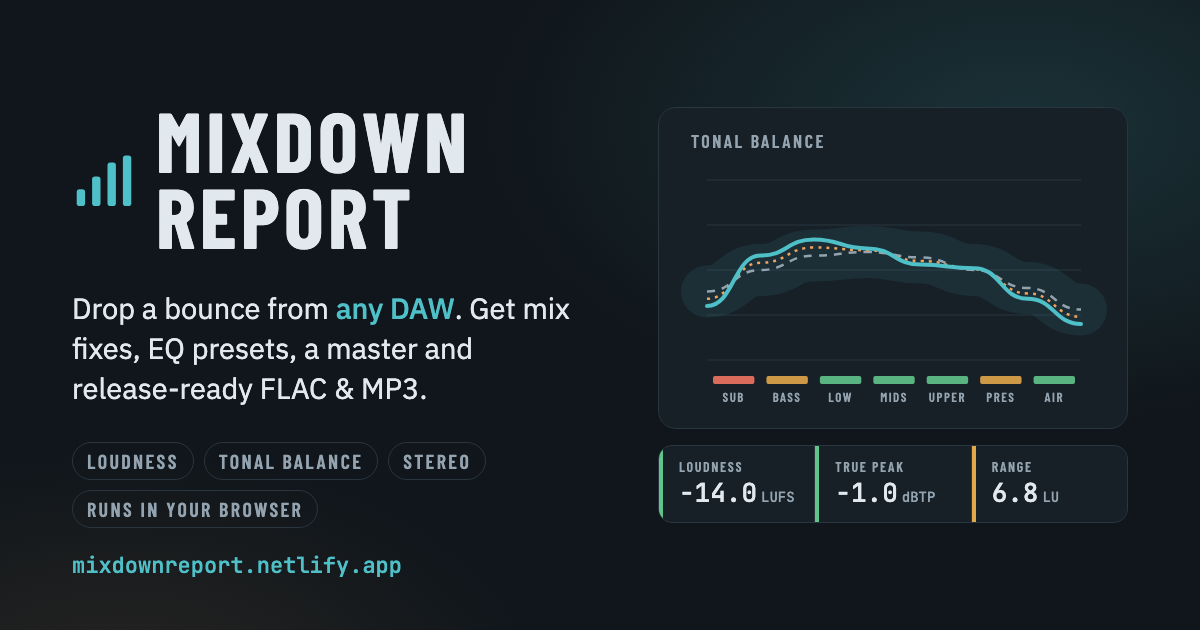
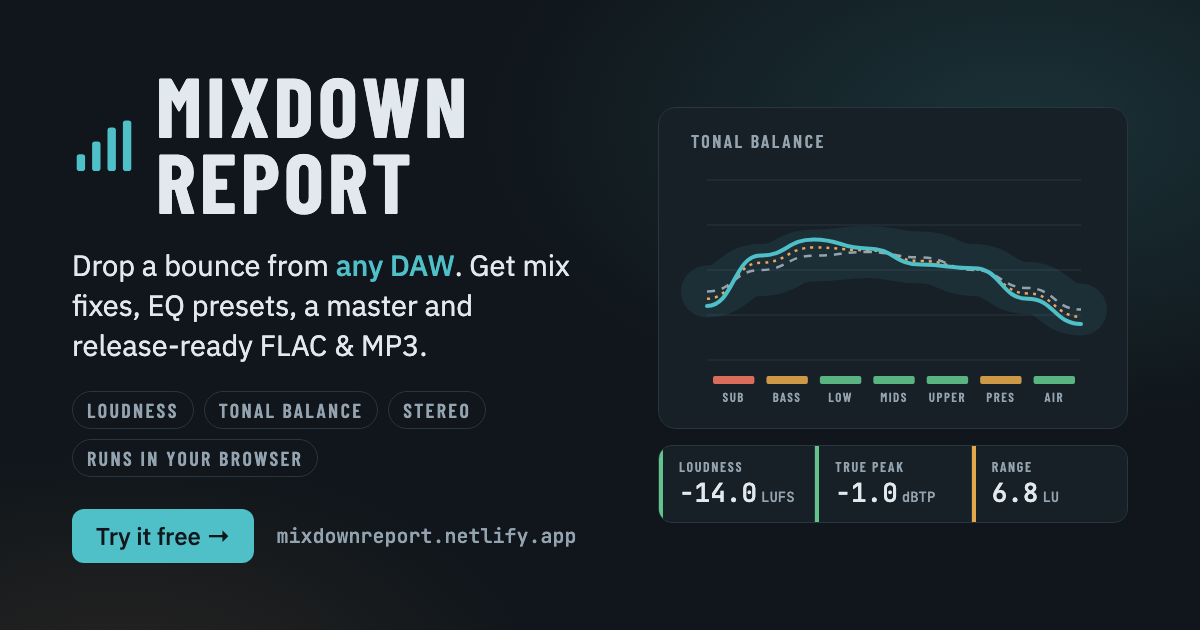
Tune share text lengths and add a call to action to the share image
- Page title matches the 55-character share title for search results
- Shorter descriptions (113 characters) so phone previews don't cut them
- "Try it free" button on the share image

diff --git a/scripts/social-images.js b/scripts/social-images.js
@@ -82,14 +82,16 @@ const ogHtml = () => `<!doctype html><meta charset="utf-8">
   html,body{margin:0;width:1200px;height:630px;overflow:hidden;background:${BG};color:${INK}}
   body{font-family:"IBM Plex Sans",-apple-system,"Helvetica Neue",sans-serif;position:relative}
   .glow{position:absolute;inset:0;background:radial-gradient(900px 500px at 85% 20%, rgba(79,191,200,.16), transparent 60%),radial-gradient(700px 400px at 10% 110%, rgba(240,163,94,.10), transparent 60%)}
-  .wrap{position:absolute;inset:0;padding:64px 72px;display:grid;grid-template-columns:1fr 470px;gap:48px;align-items:center}
-  .brand{display:flex;align-items:center;gap:20px;margin-bottom:34px}
+  .wrap{position:absolute;inset:0;padding:48px 72px;display:grid;grid-template-columns:1fr 470px;gap:48px;align-items:center}
+  .brand{display:flex;align-items:center;gap:20px;margin-bottom:26px}
   h1{margin:0;font-family:"Barlow Condensed","Arial Narrow",sans-serif;font-weight:700;font-size:84px;line-height:.9;letter-spacing:.05em;text-transform:uppercase}
   p{margin:0;font-size:29px;line-height:1.38;color:${INK};max-width:560px}
   p b{color:${TEAL};font-weight:500}
-  .tags{display:flex;gap:10px;flex-wrap:wrap;margin-top:34px}
+  .tags{display:flex;gap:10px;flex-wrap:wrap;margin-top:26px}
   .tag{font-family:"Barlow Condensed","Arial Narrow",sans-serif;font-weight:600;font-size:20px;letter-spacing:.12em;text-transform:uppercase;padding:6px 14px;border-radius:999px;border:1.5px solid ${LINE};color:${MUTED}}
-  .url{position:absolute;left:72px;bottom:50px;font-family:"JetBrains Mono",ui-monospace,Menlo,monospace;font-size:22px;color:${TEAL}}
+  .cta{display:flex;align-items:center;gap:22px;margin-top:32px}
+  .cta .btn{font-family:"IBM Plex Sans",sans-serif;font-weight:500;font-size:24px;color:${BG};background:${TEAL};padding:11px 24px;border-radius:12px;white-space:nowrap}
+  .cta .url{font-family:"JetBrains Mono",ui-monospace,Menlo,monospace;font-size:20px;color:${MUTED};white-space:nowrap}
   .card{background:${PANEL};border:1.5px solid ${LINE};border-radius:18px;padding:22px 18px 14px}
   .card .k{font-family:"Barlow Condensed","Arial Narrow",sans-serif;font-weight:600;font-size:18px;letter-spacing:.14em;color:${MUTED};margin:0 0 8px 14px;text-transform:uppercase}
   .meters{display:grid;grid-template-columns:repeat(3,1fr);gap:1px;background:${LINE};border:1.5px solid ${LINE};border-radius:14px;overflow:hidden;margin-top:16px}
@@ -108,6 +110,7 @@ const ogHtml = () => `<!doctype html><meta charset="utf-8">
     </div>
     <p>Drop a bounce from <b>any DAW</b>. Get mix fixes, EQ presets, a master and <span style="white-space:nowrap">release-ready</span> FLAC &amp; MP3.</p>
     <div class="tags"><span class="tag">Loudness</span><span class="tag">Tonal balance</span><span class="tag">Stereo</span><span class="tag">Runs in your browser</span></div>
+    <div class="cta"><span class="btn">Try it free →</span><span class="url">mixdownreport.netlify.app</span></div>
   </div>
   <div>
     <div class="card"><div class="k">Tonal balance</div>${chart(434, 250)}</div>
@@ -117,8 +120,7 @@ const ogHtml = () => `<!doctype html><meta charset="utf-8">
       <div class="m w"><div class="l">Range</div><div class="v">6.8<small>LU</small></div></div>
     </div>
   </div>
-</div>
-<div class="url">mixdownreport.netlify.app</div>`;
+</div>`;
 
 const chrome = CHROME_PATHS.find((p) => existsSync(p));
 if (!chrome) {

diff --git a/src/index.html b/src/index.html
@@ -7,7 +7,7 @@
   <meta name="description" content="Analyze a Logic Pro bounce for loudness, tonal balance and stereo image, with fixes using Logic's built-in plugins.">
   <meta http-equiv="Content-Security-Policy" content="default-src 'self'; script-src 'self'; worker-src 'self'; style-src 'self' https://fonts.googleapis.com; font-src https://fonts.gstatic.com; img-src 'self' data:; connect-src 'self'; object-src 'none'; base-uri 'none'; form-action 'none'">
   <meta name="referrer" content="no-referrer">
-  <title>Mixdown Report</title>
+  <title>Mixdown Report: mix and master analysis in your browser</title>
   <link rel="canonical" href="https://mixdownreport.netlify.app/">
   <link rel="icon" href="favicon.svg" type="image/svg+xml">
   <link rel="icon" href="icon-192.png" type="image/png" sizes="192x192">
@@ -20,7 +20,7 @@
   <meta property="og:site_name" content="Mixdown Report">
   <meta property="og:url" content="https://mixdownreport.netlify.app/">
   <meta property="og:title" content="Mixdown Report: mix and master analysis in your browser">
-  <meta property="og:description" content="Drop a bounce from any DAW. Get mix fixes, EQ presets, a master and release-ready FLAC and MP3, all in your browser. Nothing is uploaded.">
+  <meta property="og:description" content="Drop a bounce from any DAW. Get mix fixes, EQ presets, a master and release-ready FLAC and MP3. Nothing uploaded.">
   <meta property="og:image" content="https://mixdownreport.netlify.app/og-image.png">
   <meta property="og:image:type" content="image/png">
   <meta property="og:image:width" content="1200">
@@ -28,7 +28,7 @@
   <meta property="og:image:alt" content="Mixdown Report: a tonal balance chart and loudness meters next to the tagline about mix bounces.">
   <meta name="twitter:card" content="summary_large_image">
   <meta name="twitter:title" content="Mixdown Report: mix and master analysis in your browser">
-  <meta name="twitter:description" content="Drop a bounce from any DAW. Get mix fixes, EQ presets, a master and release-ready FLAC and MP3, all in your browser.">
+  <meta name="twitter:description" content="Drop a bounce from any DAW. Get mix fixes, EQ presets, a master and release-ready FLAC and MP3. Nothing uploaded.">
   <meta name="twitter:image" content="https://mixdownreport.netlify.app/og-image.png">
   <meta name="twitter:image:alt" content="Mixdown Report: a tonal balance chart and loudness meters next to the tagline about mix bounces.">
   <link rel="preconnect" href="https://fonts.googleapis.com">

diff --git a/PR.md b/PR.md
@@ -4,8 +4,8 @@ Makes shared links to https://mixdownreport.netlify.app look good, and adds a on
 
 **Changes**
 - **Link previews:**
-  - Open Graph and X/Twitter tags with a 1200×630 share image;
-  - DAW-neutral title and description;
+  - Open Graph and X/Twitter tags with a 1200×630 share image that ends with a "Try it free" button;
+  - DAW-neutral title and description, sized for search results and phone previews;
   - a canonical URL and light/dark theme colours.
 - **App icons:** an Apple touch icon and 192/512 px PNG icons, listed in a new web manifest so the app can be added to phone home screens and installed.
 - **`npm run images`:** redraws the share image and icons with headless Chrome. It has no dependencies.
